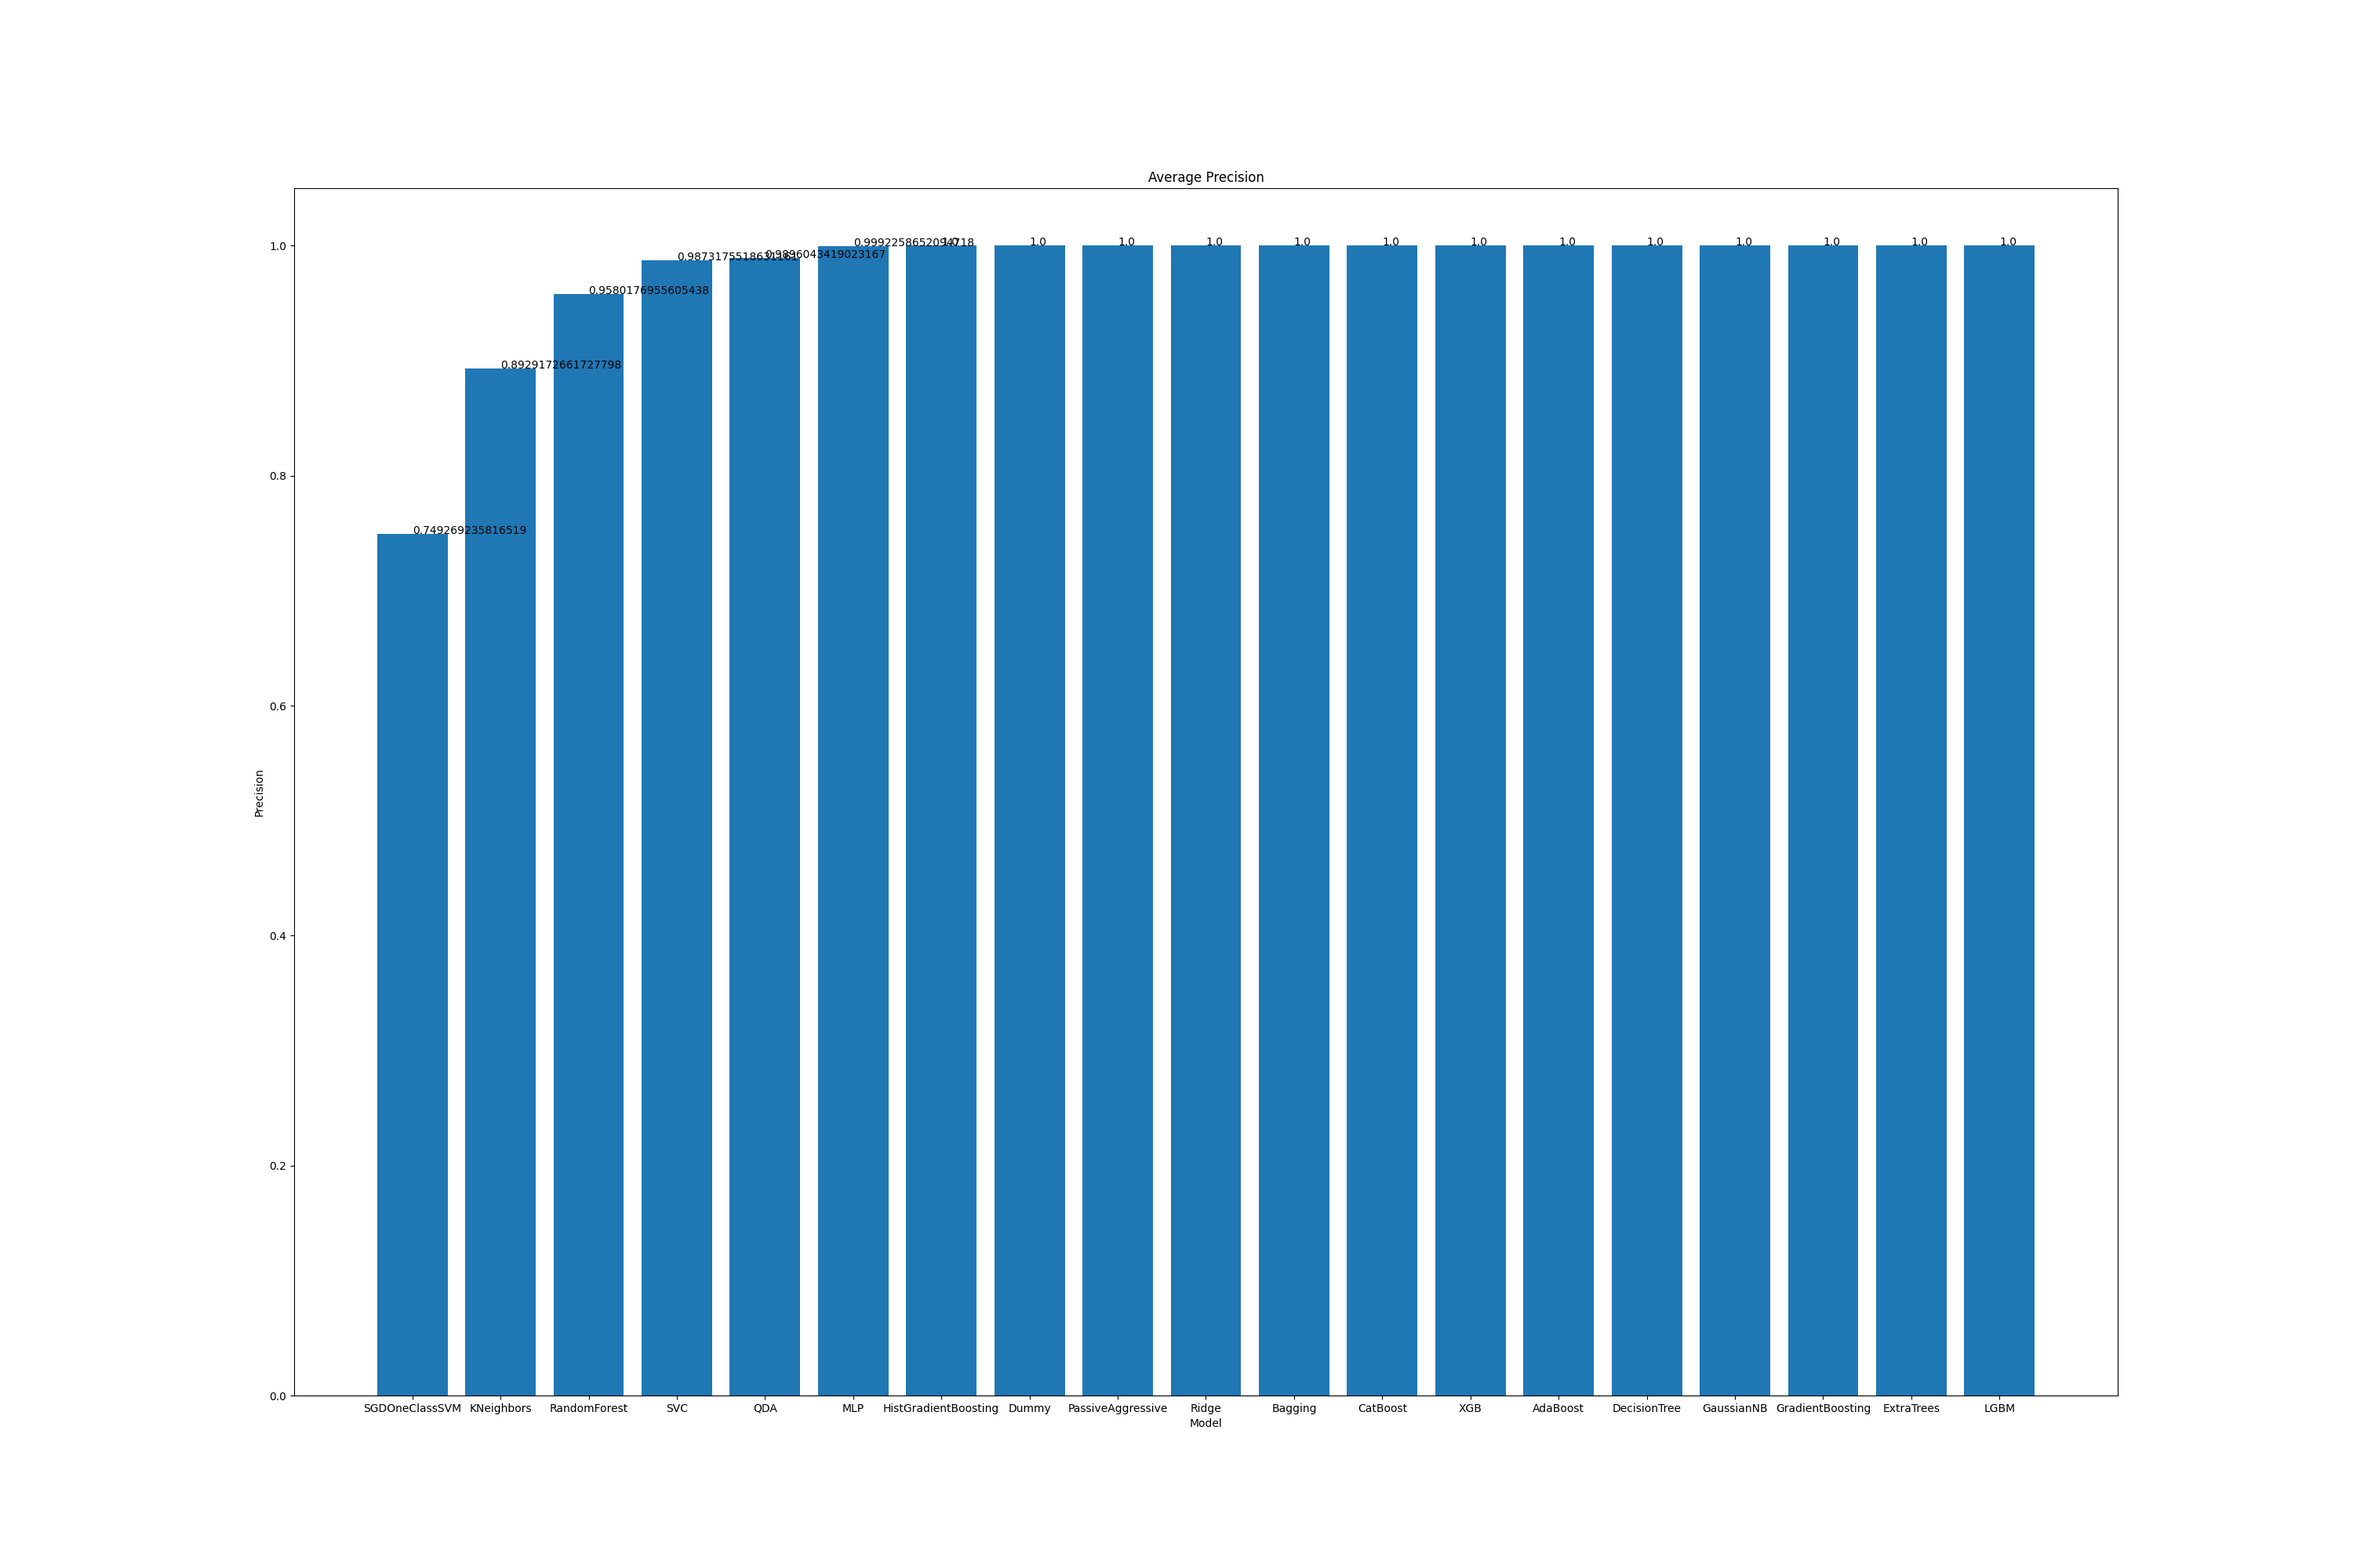
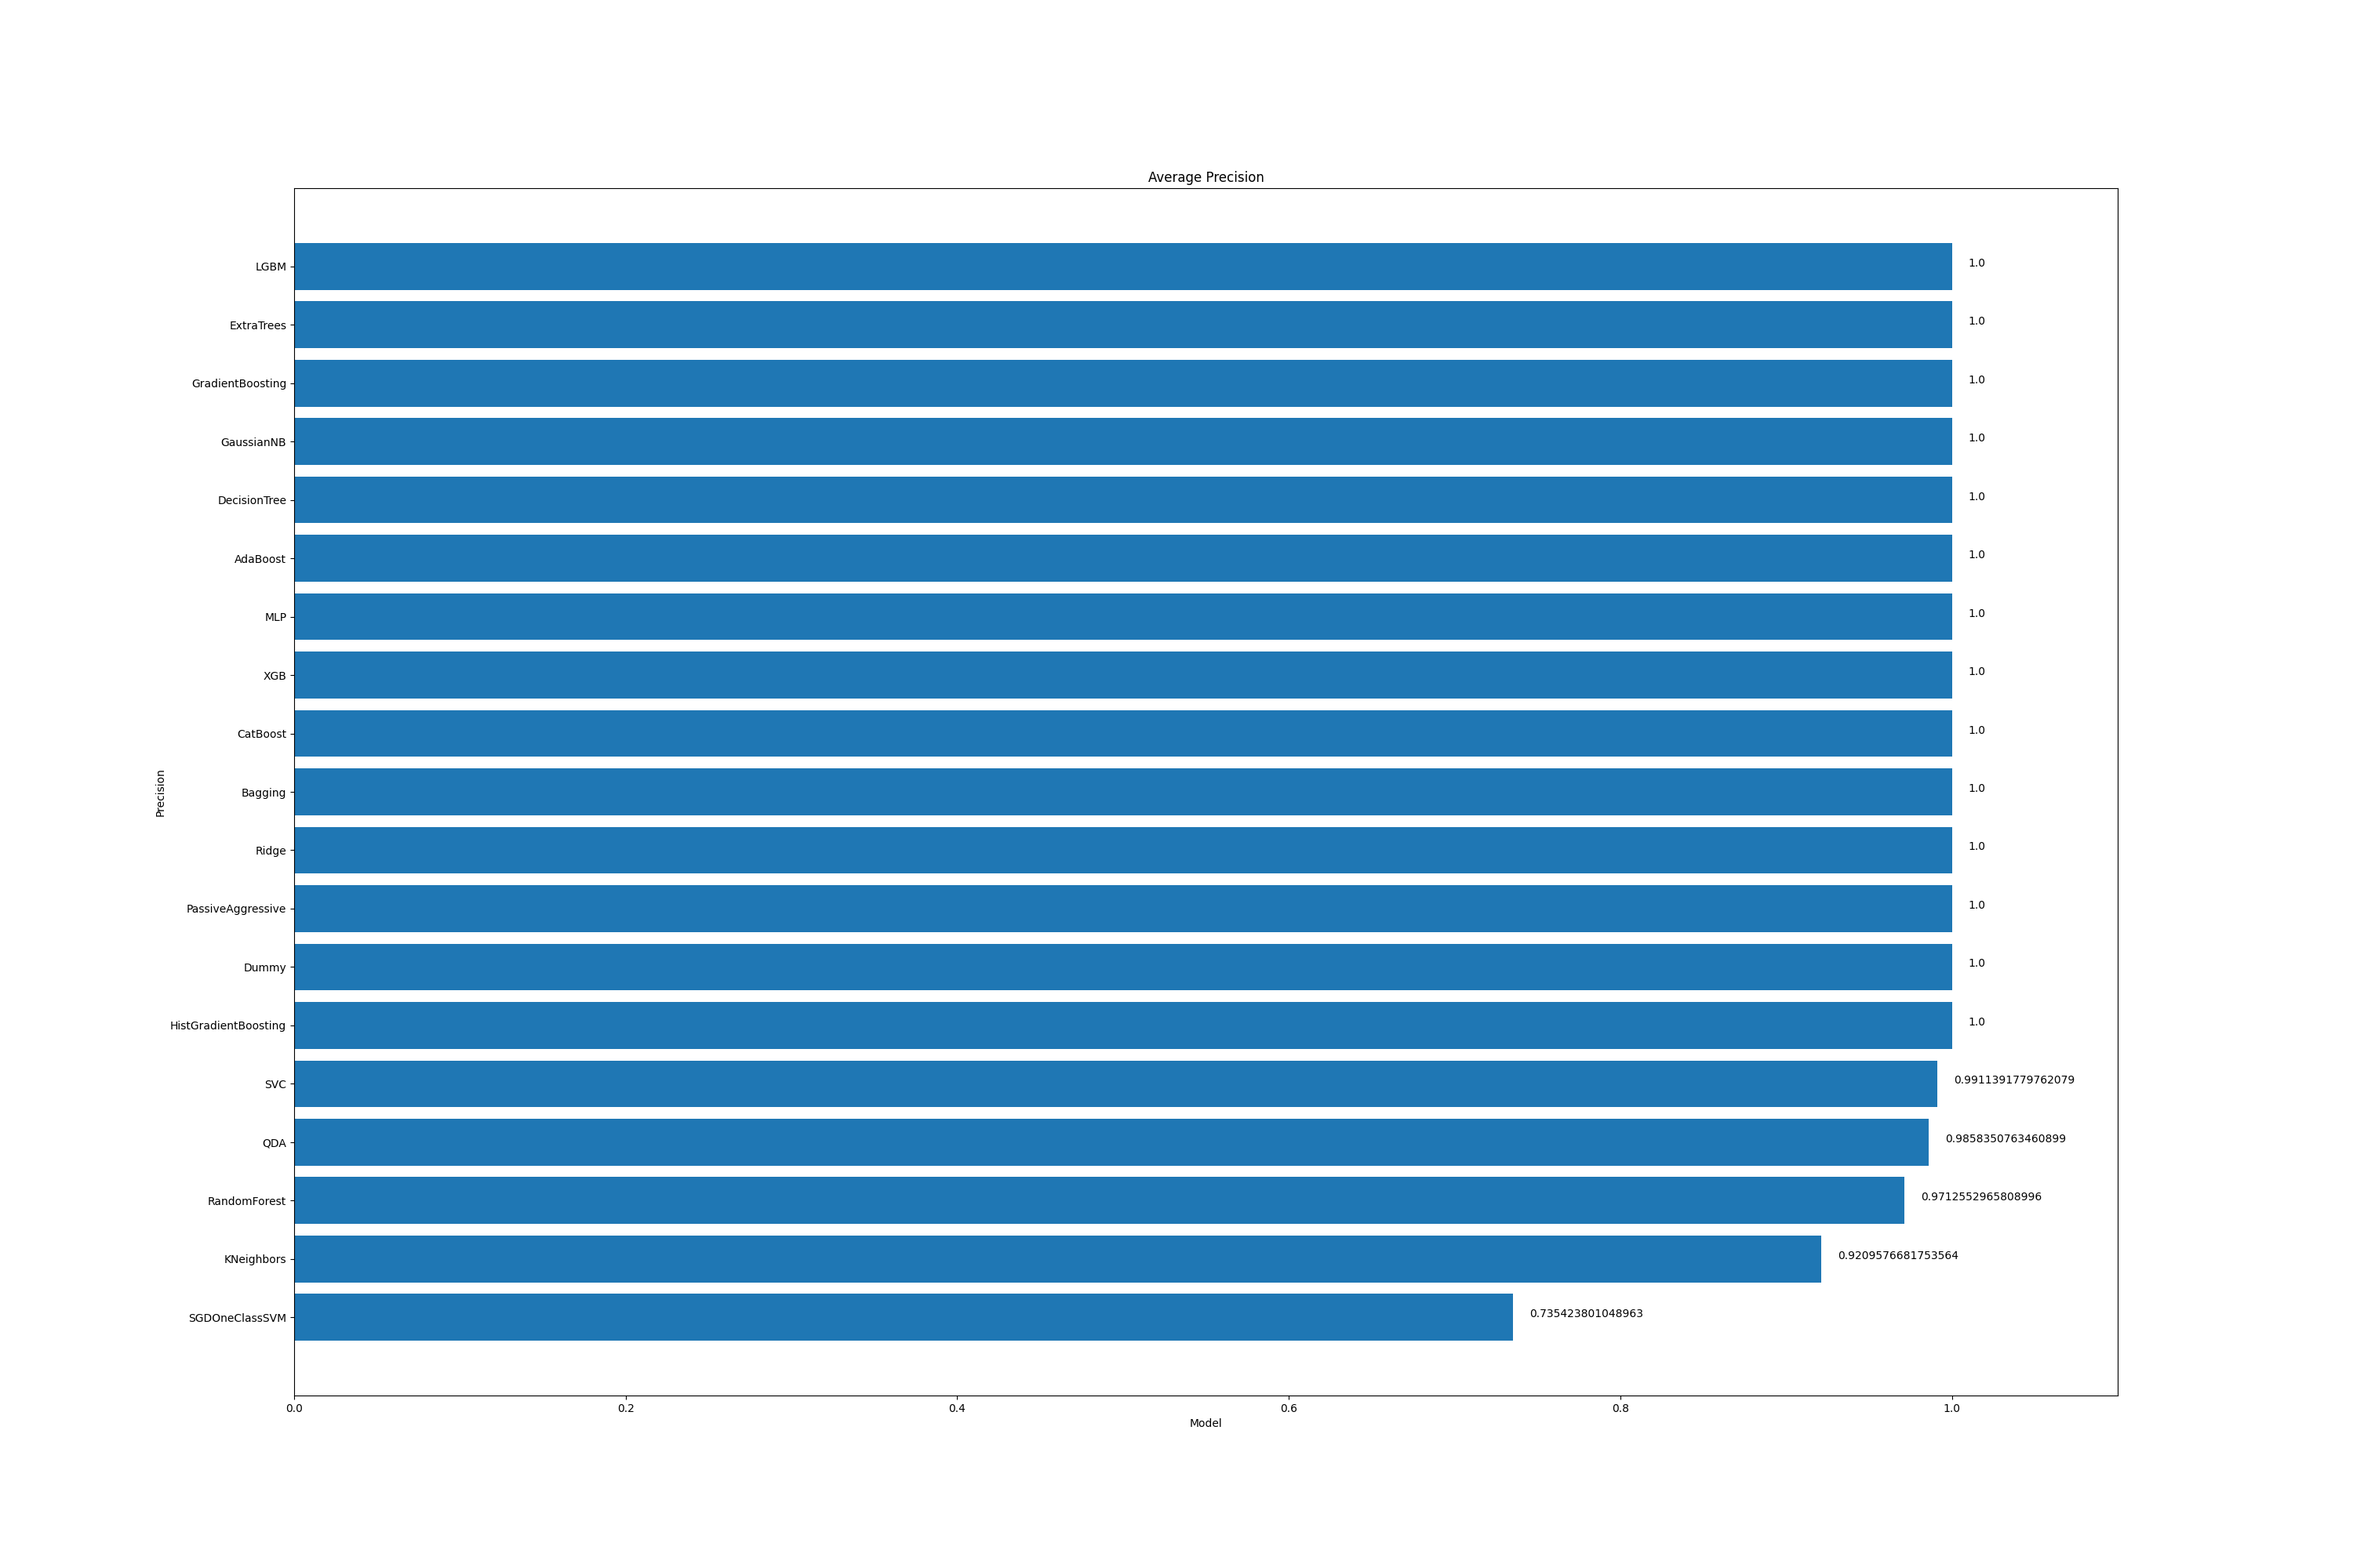
charts for all metrics, add fit time, remove f1

Changed region(s): [[0.124, 0.155, 0.868, 0.899]]

diff --git a/ptf.py b/ptf.py
@@ -39,7 +39,7 @@ from lightgbm import LGBMClassifier
 
 
 # Metrics
-from sklearn.metrics import accuracy_score, precision_score, f1_score, balanced_accuracy_score
+from sklearn.metrics import accuracy_score, precision_score, balanced_accuracy_score
 
 title = text2art("PTF", font="3d_diagonal")
 print(title)
@@ -134,7 +134,7 @@ else:
 
 def addlabels(x,y):
     for i in range(len(x)):
-        plt.text(i,y[i],y[i])
+        plt.text(0.01 + y[i],i,y[i])
 
 with Progress() as progress:
     progresstotal = progress.add_task('[green]Progress', total=total)
@@ -165,11 +165,12 @@ with Progress() as progress:
     progress.advance(progresstotal, advance=10)
 
     full_results = []
+    averages_balanced_accuracy = [0]*len(models)
     averages_accuracy = [0]*len(models)
     averages_precision = [0]*len(models)
     averages_fit_time = [0]*len(models)
     title_row = ['Trial #']
-    metrics = ['accuracy', 'balanced accuracy', 'f1 score', 'precision', 'time to fit']
+    metrics = ['accuracy', 'balanced accuracy', 'precision', 'time to fit']
     for model_name in models.keys():
         for metric in metrics:
             title_row.append(f'{model_name} - {metric}')
@@ -183,9 +184,6 @@ with Progress() as progress:
 
         # predictions and models
 
-        results = []
-
-        # trial #, accuracy VHD, accuracy Cath, balanced accuracy VHD, balanced accuracy Cath, f1 VHD, f1 Cath, jaccard VHD, jaccard Cath
         trial_stats = [trial] 
         indexcounter = 0
 
@@ -203,15 +201,14 @@ with Progress() as progress:
 
             trial_stats.append(accuracy_score(predictions, y_test))
             trial_stats.append(balanced_accuracy_score(predictions, y_test))
-            trial_stats.append(f1_score(predictions, y_test, average="weighted"))
             trial_stats.append(precision_score(predictions, y_test, average="weighted"))
             trial_stats.append(time_to_fit)
 
             progress.advance(progresstotal, advance=5)
-            results.append(balanced_accuracy_score(predictions, y_test))
-            averages_accuracy[indexcounter] += balanced_accuracy_score(predictions, y_test)
+            averages_balanced_accuracy[indexcounter] += balanced_accuracy_score(predictions, y_test)
             averages_precision[indexcounter] += precision_score(predictions, y_test, average="weighted")
             averages_fit_time[indexcounter] += time_to_fit
+            averages_accuracy[indexcounter] += accuracy_score(predictions, y_test)
             indexcounter+=1
 
         full_results.append(trial_stats)
@@ -221,11 +218,12 @@ with Progress() as progress:
         averages_accuracy[i] /= args.trials
         averages_precision[i] /= args.trials
         averages_fit_time[i] /= args.trials
+        averages_balanced_accuracy[i] /= args.trials
 
     # Generate graphs?
     if args.graphs:
-        metric_averages = [averages_accuracy, averages_precision, averages_fit_time]
-        metric_names_graph = ['Balanced Accuracy', 'Precision', 'Time To Fit']
+        metric_averages = [averages_balanced_accuracy, averages_precision, averages_fit_time, averages_accuracy]
+        metric_names_graph = ['Balanced Accuracy', 'Precision', 'Time To Fit (NS)', 'Accuracy']
 
         for index, metric_names_graph in enumerate(metric_names_graph):
             progress.update(progresstotal, description=f'STAGE: TRIAL {trial}, Generate Graphs')
@@ -242,13 +240,14 @@ with Progress() as progress:
             data = data.sort_values('balanced_accuracy')
             
             plt.figure(figsize=(30, 20))
-            plt.bar('models', 'balanced_accuracy', data=data, width=0.8)
+            plt.barh('models', 'balanced_accuracy', data=data, height=0.8)
 
             addlabels(list(data['models']), list(data['balanced_accuracy']))
 
             plt.title(f'Average {metric_names_graph}')
             plt.xlabel("Model")
             plt.ylabel(metric_names_graph)
+            plt.margins(x=0.1)
 
             # Add some text for labels, title and custom x-axis tick labels, etc.
             plt.savefig(f'Results/{metric_names_graph}_Chart.png')
